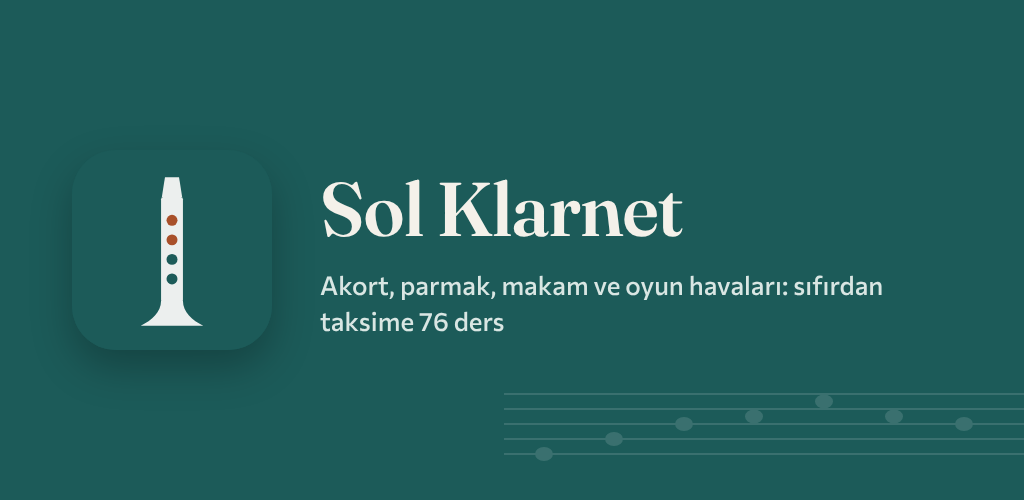
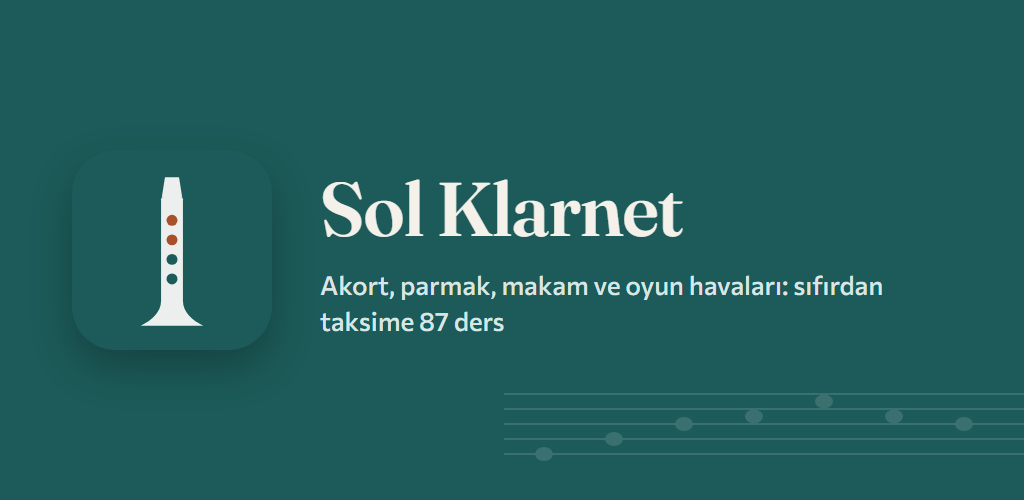
Mağaza: ekran görüntüleri ve metin bugünkü uygulamaya göre yenilendi
Sekiz ekran (hoca kartı, seviye sınaması, akort, parmak, çeşniler, nota arşivi, Çevir, eşlik), Play 1080×2160 ve iPhone 6,9" 1320×2868; arşivde kamu malı eser. Mağaza metnine Çevir ve Teori eklendi.

diff --git a/scripts/store-shots.js b/scripts/store-shots.js
@@ -1,7 +1,9 @@
-// Mağaza malzemeleri: telefon ekran görüntüleri (store/screens/, 1080×2160 civarı, Play'in 2:1 sınırında) ve
-// 1024×500 tanıtım görseli (store/feature-graphic.png). Uygulama yerel bir sunucudan açılır, gösterim için örnek
-// ilerleme yüklenir; Akort ve Kayıt ekranları sahte mikrofona verilen sentetik klarnet sesiyle çekilir.
-// Çalıştırma: npm run store-shots  (Playwright ve Chromium gerekir: npm i -D playwright && npx playwright install chromium)
+// Mağaza malzemeleri: telefon ekran görüntüleri (Play için store/screens/ 1080×2160, App Store için store/screens/ios/
+// 1320×2868) ve 1024×500 tanıtım görseli (store/feature-graphic.png). Uygulama yerel bir sunucudan açılır, gösterim için
+// örnek ilerleme yüklenir; Akort ve Seviye sınaması sahte mikrofona verilen sentetik klarnet sesiyle çekilir.
+// Çalıştırma: npm run store-shots  (Playwright ve Chromium gerekir: npm i -D playwright && npx playwright install chromium;
+// genel kuruluysa NODE_PATH="$(npm root -g)"). ONLY=play ya da ONLY=ios yalnız o takımı çeker. SHOT_SRC=klasör uygulamayı o
+// kopyadan sunar (git archive HEAD ile çıkarılmış temiz kopya: başka oturumların yarım değişiklikleri görüntüye girmesin).
 const fs = require("fs");
 const path = require("path");
 const http = require("http");
@@ -12,6 +14,8 @@ try{ ({ chromium } = require("playwright")); }
 catch(e){ console.error("Playwright bulunamadı: npm i -D playwright && npx playwright install chromium"); process.exit(1); }
 
 const ROOT = path.join(__dirname, "..");
+const SRC = path.resolve(process.env.SHOT_SRC || ROOT);
+const { LESSONS } = require(path.join(SRC, "lessons.js"));
 const OUT = path.join(ROOT, "store", "screens");
 const TYPES = { ".html":"text/html", ".js":"text/javascript", ".css":"text/css", ".json":"application/json", ".svg":"image/svg+xml",
   ".png":"image/png", ".woff2":"font/woff2", ".webmanifest":"application/manifest+json" };
@@ -37,72 +41,123 @@ function toneWav(file, seq){
   fs.writeFileSync(file, b);
 }
 
-// Gösterim için örnek ilerleme: ilk 30 ders bitmiş, 12 günlük seri, birkaç rekor
+// Gösterim için örnek ilerleme: üç ünite ve sınavları bitmiş, Teknik ve üslup yarıda, iki dersin tekrarı gelmiş, bugünkü
+// çalışma daha yapılmamış (hoca kartı Bugünün çalışması'nı söyler). Kademe raporu görülmüş sayılır
 function seedScript(){
   return `(() => {
     const day = d => { const x = new Date(); x.setDate(x.getDate() - d); return x.getFullYear() + "-" + String(x.getMonth()+1).padStart(2,"0") + "-" + String(x.getDate()).padStart(2,"0"); };
-    const prog = {};
-    LESSONS.slice(0, 30).forEach((l, i) => { prog[l.id] = { s:{}, d: day(40 - i) }; l.steps.forEach((s, k) => prog[l.id].s[k] = { v:1, ok:true }); });
-    for(const u of ["baslangic", "temel", "klarino"]){ const ex = examFor(u); prog[ex.id] = { s:{}, d: day(20) }; ex.steps.forEach((s, k) => prog[ex.id].s[k] = { v:1, ok:true }); }
-    const days = {}; for(let i=0;i<40;i++) if(i < 12 || i % 3) days[day(i)] = 900 + (i*137 % 900);
+    const units = ["baslangic", "temel", "klarino"], prog = {};
+    const finish = (l, d) => { prog[l.id] = { s:{}, d: day(d) }; l.steps.forEach((s, k) => prog[l.id].s[k] = { v:1, ok:true }); };
+    LESSONS.filter(l => units.includes(l.unit) || ["uzun-ton", "glissando", "vibrato", "register-gecisi", "artikulasyon"].includes(l.id)).forEach((l, i) => finish(l, 34 - i));
+    units.forEach((u, i) => finish(examFor(u), 22 - i*5));
+    const days = {}; for(let i=1;i<40;i++) if(i < 12 || i % 3) days[day(i)] = 900 + (i*137 % 900);
     const set = (k, v) => localStorage.setItem("sk." + k, JSON.stringify(v));
-    set("lesson.prog", prog); set("days", days); set("onboard.done", true); set("goal.min", 15);
-    set("lesson.dailyDone", Array.from({ length:18 }, (_, i) => day(i)));
+    set("lesson.prog", prog); set("days", days); set("onboard.done", true); set("onboard.level", "makam"); set("goal.min", 15);
+    set("lesson.dailyDone", Array.from({ length:11 }, (_, i) => day(i + 1)));
     set("long.best", { 67:{ score:72 }, 69:{ score:68 }, 74:{ score:64 } }); set("rhythm.best", 78); set("ear.best", { pitch:1.5, makam:4 });
-    set("lesson.cur", "daily"); set("band.usul", "roman"); set("band.mk", "hicaz");
+    set("rm.reported", ["baslangic"]); set("band.usul", "roman"); set("band.mk", "hicaz"); set("lesson.cur", "dinamik"); set("arch.zoom", 0.8);
+    window.SK_RESETTING = true;      // sayfa kapanırken bellekteki boş sayaçlar örnek günlerin üstüne yazılmasın
   })()`;
 }
 
+// Seviye sınamasının nota turundaki sıra (onboard.js CHECK); sahte mikrofon notaları bu sırayla döngüde çalar
+const CHECK_SEQ = [67, 62, 60, 55, 52, 69, 70, 71, 72, 74, 79, 84].map(w => [w, 1.8]);
+// Arşiv ve Çevir ekranlarındaki eser: Kantemiroğlu (ö. 1723), Uşşak saz semâîsi; besteci kamu malı, sözsüz, docs/lisans-disla.csv
+// ve docs/lisans-belirsiz.csv listelerinde yok. Eser değişirse bu listelerden yeniden bakılmalı
+const PIECE = "ussak--sazsemaisi--aksaksemai----kantemiroglu";
+// Akort ekranındaki ses: Uşşak'ta icra Segâh'ı (AEU'dan 1,5 koma pes), hedefin hemen altında. Yazılı nota kesirli olabilir
+const SEGAH_ICRA = 67 + (17 - 1.5 - 0.2)*12/53 - 0.04;
+
+// Her ekran bir kez Play için, bir kez App Store için çekilir (boyutlar tam bu olmalı)
+const TARGETS = [
+  { id:"play", dir: OUT, label: "store/screens/", viewport:{ width:432, height:864 }, dpr:2.5 },                     // 1080×2160, Play'in 2:1 sınırı
+  { id:"ios", dir: path.join(OUT, "ios"), label: "store/screens/ios/", viewport:{ width:440, height:956 }, dpr:3 }   // 1320×2868, iPhone 6,9"
+];
+
+async function shootAll(t, base, wavs){
+  fs.mkdirSync(t.dir, { recursive: true });
+  const open = async wav => {
+    const browser = await chromium.launch({ args:["--use-fake-ui-for-media-stream", "--use-fake-device-for-media-stream",
+      "--use-file-for-fake-audio-capture=" + wav, "--autoplay-policy=no-user-gesture-required"] });
+    const ctx = await browser.newContext({ viewport:t.viewport, deviceScaleFactor:t.dpr, isMobile:true, hasTouch:true,
+      permissions:["microphone"], colorScheme:"light", locale:"tr-TR" });
+    // Üst çubuk yarı saydam: kaydırılmış sayfada alttaki yazı içinden hayalet gibi görünmesin
+    await ctx.addInitScript(() => addEventListener("DOMContentLoaded", () => { const st = document.createElement("style"); st.textContent = ".appbar{background:var(--paper)!important;backdrop-filter:none!important;-webkit-backdrop-filter:none!important}"; document.head.append(st); }));
+    const page = await ctx.newPage();
+    page.on("pageerror", e => console.error("sayfa hatası:", e.message));
+    await page.goto(base + "index.html");
+    await page.evaluate(seedScript());
+    return { browser, page };
+  };
+  const save = async (page, name) => { await page.screenshot({ path: path.join(t.dir, name + ".png") }); console.log(t.label + name + ".png"); };
+  // Üst çubuk yapışkan: öğe çubuğun altında kalmasın (gap: çubuktan uzaklık)
+  const toTop = (page, sel, gap = 84) => page.evaluate(([s, g]) => window.scrollTo(0, window.scrollY + document.querySelector(s).getBoundingClientRect().top - g), [sel, gap]);
+
+  // Seviye sınaması: nota okuma soruları geçilir, gerçek ses izleme altıncı notaya kadar sürer
+  const lv = await open(wavs.check);
+  { const page = lv.page;
+    await page.goto(base + "index.html?tab=lessons"); await page.waitForTimeout(1200);
+    await page.click("#lslevel"); await page.waitForTimeout(400);
+    await page.click('[data-ob="chkstart"]'); await page.waitForTimeout(400);
+    for(const a of ["Mi", "La", "Do", "Fa"]){ await page.click(`[data-read="${a}"]`); await page.waitForTimeout(500); }
+    await page.waitForFunction(() => /6\/12/.test(document.querySelector("#onboard .eyebrow")?.textContent || "") && parseFloat(document.getElementById("obhold")?.style.width) > 35, null, { timeout:90000 });
+    await save(page, "2-seviye-sinamasi");
+  }
+  await lv.browser.close();
+
+  const { browser, page } = await open(wavs.play);
+  const shot = async (name, url, prep) => {
+    await page.goto(base + url); await page.waitForTimeout(1300);
+    if(prep) await prep();
+    await page.waitForTimeout(300);
+    await save(page, name);
+  };
+  await shot("1-hoca-karti", "index.html?tab=lessons");
+  await shot("3-akort", "index.html?view=tune", async () => {
+    await page.selectOption("#tmakam", "ussak"); await page.click('[data-tune="icra"]');
+    await page.click("#btn"); await page.waitForTimeout(1800);
+  });
+  await shot("4-parmak", "index.html?view=finger", async () => {
+    await page.click('#rail [aria-label*="yazılı Re4 "]'); await page.waitForTimeout(500);
+    await page.evaluate(() => { SK.stopAll(); window.scrollTo(0, 225); });
+  });
+  await shot("5-cesniler", "index.html?tab=teori", async () => {
+    await page.click('[data-t="cesni"]'); await page.waitForTimeout(700);
+    await toTop(page, '[data-ce="0"]', 68);
+  });
+  await shot("6-nota-arsivi", "index.html?eser=" + PIECE, async () => { await page.click("#arfull"); await page.waitForTimeout(800); });
+  // Çevir: arşivdeki aynı eserin notası resim olarak verilir, gerçek okuyucu okur
+  const clip = await page.evaluate(() => { const r = [...document.querySelectorAll("#pp-archive svg.score")].slice(0, 4).map(e => e.getBoundingClientRect()); return { x:r[0].x + scrollX, y:r[0].y + scrollY, width:r[0].width, height:r[3].bottom - r[0].top }; });
+  const pic = await page.screenshot({ clip, fullPage:true });
+  await page.evaluate(() => document.body.classList.remove("arfullbody"));
+  await shot("7-cevir", "index.html?tab=convert", async () => {
+    await page.setInputFiles("#cvpic", { name:"ussak-saz-semaisi.png", mimeType:"image/png", buffer:pic });
+    await page.waitForSelector("#cvchips button", { timeout:30000 }); await page.waitForTimeout(800);
+    await toTop(page, "#cvkind", 66);
+  });
+  await shot("8-eslik", "index.html?tab=band", async () => {
+    await page.click("#bdgo"); await page.waitForTimeout(7000); await page.click("#bdgo"); await page.waitForTimeout(800);
+  });
+  await browser.close();
+}
+
 async function main(){
-  fs.mkdirSync(OUT, { recursive: true });
   const srv = http.createServer((req, res) => {
-    const u = decodeURIComponent(req.url.split("?")[0]), f = path.join(ROOT, u === "/" ? "index.html" : u);
-    if(!f.startsWith(ROOT) || !fs.existsSync(f) || fs.statSync(f).isDirectory()){ res.writeHead(404); return res.end(); }
+    const u = decodeURIComponent(req.url.split("?")[0]), f = path.join(SRC, u === "/" ? "index.html" : u);
+    if(!f.startsWith(SRC) || !fs.existsSync(f) || fs.statSync(f).isDirectory()){ res.writeHead(404); return res.end(); }
     res.writeHead(200, { "Content-Type": TYPES[path.extname(f)] || "application/octet-stream" }); fs.createReadStream(f).pipe(res);
   }).listen(0);
   const base = "http://localhost:" + srv.address().port + "/";
-  const wav = path.join(os.tmpdir(), "sol-klarnet-shots.wav");
-  toneWav(wav, [[74, 2.5], [null, 0.3], [72, 0.6], [74, 0.6], [76, 0.6], [77, 0.6], [79, 1.2], [null, 0.3], [77, 0.6], [76, 0.6], [74, 1.5], [null, 0.4]]);
-  const browser = await chromium.launch({ args:["--use-fake-ui-for-media-stream", "--use-fake-device-for-media-stream",
-    "--use-file-for-fake-audio-capture=" + wav, "--autoplay-policy=no-user-gesture-required"] });
-  const ctx = await browser.newContext({ viewport:{ width:411, height:822 }, deviceScaleFactor:2.625, isMobile:true, hasTouch:true,
-    permissions:["microphone"], colorScheme:"light", locale:"tr-TR" });
-  const page = await ctx.newPage();
-  page.on("pageerror", e => console.error("sayfa hatası:", e.message));
-  await page.goto(base + "index.html");
-  await page.evaluate(seedScript());
-  const shot = async (name, url, prep) => {
-    await page.goto(base + url); await page.waitForTimeout(1200);
-    if(prep) await prep();
-    await page.screenshot({ path: path.join(OUT, name + ".png") });
-    console.log("store/screens/" + name + ".png");
-  };
-  await shot("1-akort", "index.html?view=tune", async () => {
-    await page.click("#btn");
-    await page.waitForTimeout(1800);
-  });
-  await shot("2-dersler", "index.html?view=practice&tab=lessons", async () => { await page.evaluate(() => { const b = document.getElementById("lsbody"); if(b) b.scrollIntoView(); }); });
-  await shot("3-yol-haritasi", "index.html?view=practice&tab=roadmap", async () => { await page.evaluate(() => document.querySelector(".rmbadges").scrollIntoView({ block:"start" })); });
-  await shot("4-nota-arsivi", "index.html?view=practice&tab=archive", async () => {
-    const r = await page.$("#pp-archive [data-id]"); if(r){ await r.click(); await page.waitForTimeout(1200); }
-  });
-  await shot("5-eslik", "index.html?view=practice&tab=band", async () => {
-    await page.click("#bdgo"); await page.waitForTimeout(2500);
-    await page.evaluate(() => document.getElementById("bdslots").scrollIntoView({ block:"center" }));
-  });
-  await shot("6-kayit", "index.html?view=practice&tab=rec", async () => {
-    for(let k=0;k<2;k++){ await page.click("#rcbtn"); await page.waitForTimeout(5000); await page.click("#rcbtn"); await page.waitForTimeout(2000); }
-    await page.evaluate(async () => { const all = (await RECDB.list()).sort((a, b) => a.ts - b.ts); all[0].ts -= 31*864e5; all[0].sum = { ...all[0].sum, pct: Math.max(0, (all[0].sum.pct || 60) - 25), dev: (all[0].sum.dev || 0.6) + 0.9 }; await RECDB.put(all[0], null); });
-    await page.goto(base + "index.html?view=practice&tab=rec"); await page.waitForTimeout(1200);
-    await page.click("#rchist .primary"); await page.waitForTimeout(800);
-    await page.evaluate(() => document.getElementById("rccmp").scrollIntoView({ block:"start" }));
-  });
-  await page.evaluate(async () => { for(const m of await RECDB.list()) await RECDB.del(m.id); });
+  const wavs = { play: path.join(os.tmpdir(), "sol-klarnet-shots.wav"), check: path.join(os.tmpdir(), "sol-klarnet-check.wav") };
+  toneWav(wavs.play, [[SEGAH_ICRA, 8], [null, 0.3]]);
+  toneWav(wavs.check, CHECK_SEQ);
+  for(const t of TARGETS) if(!process.env.ONLY || t.id === process.env.ONLY) await shootAll(t, base, wavs);
 
   // Tanıtım görseli: 1024×500
+  const browser = await chromium.launch();
   const fg = await browser.newPage({ viewport:{ width:1024, height:500 }, deviceScaleFactor:1 });
   await fg.goto(base + "index.html");
-  const icon = fs.readFileSync(path.join(ROOT, "icon.svg"), "utf8");
+  const icon = fs.readFileSync(path.join(SRC, "icon.svg"), "utf8");
   await fg.setContent(`<!doctype html><html><head><link rel="stylesheet" href="${base}fonts/fonts.css"><style>
     body{margin:0;width:1024px;height:500px;background:#1C5B59;color:#F4F1EA;font-family:Fraunces,serif;display:flex;align-items:center;gap:48px;padding:0 72px;box-sizing:border-box;overflow:hidden;position:relative}
     .ic{width:200px;height:200px;flex:0 0 auto;border-radius:44px;overflow:hidden;box-shadow:0 18px 40px rgba(0,0,0,.25)}
@@ -111,7 +166,7 @@ async function main(){
     p{font:500 26px/1.35 Commissioner,sans-serif;margin:0;color:#D9E6E3;max-width:600px}
     .st{position:absolute;right:-40px;bottom:36px;width:560px;opacity:.13}
   </style></head><body><div class="ic">${icon}</div><div><h1>Sol Klarnet</h1>
-    <p>Akort, parmak, makam ve oyun havaları: sıfırdan taksime 77 ders</p></div>
+    <p>Akort, parmak, makam ve oyun havaları: sıfırdan taksime ${LESSONS.length} ders</p></div>
     <svg class="st" viewBox="0 0 560 80"><g stroke="#fff" stroke-width="2">${[0,1,2,3,4].map(i => `<line x1="0" x2="560" y1="${10+i*15}" y2="${10+i*15}"/>`).join("")}</g>
     <g fill="#fff">${[40,110,180,250,320,390,460,530].map((x, i) => `<ellipse cx="${x}" cy="${70 - [0,2,4,5,7,5,4,2][i]*7.5}" rx="9" ry="7"/>`).join("")}</g></svg></body></html>`);
   await fg.waitForTimeout(600);

diff --git a/store/listing.md b/store/listing.md
@@ -2,7 +2,8 @@
 
 Play Console → Ana mağaza girişi. Kısa açıklama en çok 80, uzun açıklama en çok 4000 karakter.
 Görseller: `store/play-icon-512.png` (simge), `store/feature-graphic.png` (1024×500 tanıtım görseli),
-`store/screens/*.png` (telefon ekran görüntüleri; yeniden üretmek için `npm run store-shots`).
+`store/screens/*.png` (Play telefon görüntüleri, 1080×2160), `store/screens/ios/*.png` (App Store iPhone 6,9", 1320×2868);
+yeniden üretmek için `npm run store-shots`.
 
 ## Türkçe
 
@@ -32,6 +33,7 @@ DERSLER VE YOL HARİTASI
 MAKAM VE KULAK
 • 20 makamın dizisi, seyri, durak ve güçlüsü; taklit, seyir (taksim) değerlendirmesi
 • Koma eşiği, perde ayırt, makam ve aralık tanıma; ritim ve ezgi diktesi, deşifre
+• Teori: dizekten perdelere, çeşniler (dörtlü ve beşliler), makam yapısı, usul
 
 OYUN HAVALARI VE EŞLİK
 • Kasap, karşılama, Roman havası, çiftetelli, Rumeli, sirto, köçekçe, zeybek ve Ağır Roman etütleri
@@ -46,6 +48,7 @@ TEKNİK VE SÜSLEME
 
 NOTA ARŞİVİ VE KAYIT
 • SymbTr'den 2200 eser: koma işaretli nota, eşlik, tempo, A–B döngü, mikrofonla takip
+• Çevir: PDF, resim ya da sesten notayı oku; okunanı denetle, düzelt, kendi eserlerine ekle
 • Kayıtlarını tarihle sakla, bir ay önceki kaydınla karşılaştır: perde eğrileri üst üste, farklar sayıyla
 
 Bilmen gerekenler: örnek klarnet sesleri Si♭ klarnet kaydıdır, perdesi Sol klarnete ayarlanır; Sol klarnet tınısı değildir. Perde bulucu Si♭ klarnet kayıtlarıyla ve benzetilmiş telefon ve oda koşullarıyla sınandı; Türk Sol klarnetiyle sınama sürüyor. Çeyrek ses parmakları kaynaktan alındı, Sol klarnette doğrulanmadı ve uygulamada öyle işaretli.
@@ -80,6 +83,7 @@ LESSONS AND ROADMAP
 MAKAM AND EAR
 • Scale, seyir, final and dominant of 20 makams; imitation and seyir (taksim) assessment
 • Comma threshold, pitch discrimination, makam and interval recognition; rhythm and melodic dictation, sight-reading
+• Theory: from the staff to perdes, çeşnis (tetrachords and pentachords), makam structure, usul
 
 DANCE TUNES AND PLAY-ALONG
 • Études for kasap, karşılama, Roman havası, çiftetelli, Rumeli, sirto, köçekçe, zeybek and ağır Roman
@@ -94,6 +98,7 @@ TECHNIQUE AND ORNAMENTS
 
 SCORE LIBRARY AND RECORDINGS
 • 2200 pieces from SymbTr: comma-accurate notation, band accompaniment, tempo, A–B loop, mic follow
+• Convert: read notes from a PDF, picture or recording; check, correct and save them to your own pieces
 • Keep your recordings by date and compare with one from a month ago: pitch curves overlaid, differences in numbers
 
 Good to know: the sample clarinet sounds are B♭ clarinet recordings pitched to the G clarinet, not the G clarinet's own timbre. The pitch detector was tested on B♭ clarinet recordings and on simulated phone and room conditions; testing with Turkish G clarinets is ongoing. Quarter-tone fingerings come from a published chart, are not yet verified on the G clarinet and are marked as such in the app.

diff --git a/docs/BACKLOG.md b/docs/BACKLOG.md
@@ -662,7 +662,7 @@ Güncel sayılar ve sıralı liste [DENEME-LISTESI.md](DENEME-LISTESI.md) içind
    `bandFreqs`), usule oturma yüzdesi gerçekçi mi (±60 ms), taksimde süsleme sayısı kulağa uyuyor mu, 2 dakikalık taksimin
    çözümü telefonda ne kadar sürüyor, IndexedDB'de 50 kayıt ne kadar yer tutuyor. Bulgulara göre düzeltilir.
 2. **Mağazaya çıkış (proje sahibi):** Play Console hesabı, yükleme anahtarı, kapalı test, veri güvenliği formu. Görseller ve
-   metinler `store/` klasöründe hazır. Ayrıntı: [TODO.md](TODO.md).
+   metinler `store/` klasöründe hazır (5 Kasım 2026'da yenilendi: 8 ekran, Play 1080×2160 ve iPhone 6,9" 1320×2868; iPad takımı yok, Xcode hedefi iPad'i de kapsıyor). Ayrıntı: [TODO.md](TODO.md).
 3. **Daha sonra:** Kamerayla duruş ve ağız kontrolü; hoca–öğrenci modu (ödev, kayda yorum); cihazlar arası eşitleme.
    İnternet kullanmak serbest (28 Ekim 2026, proje sahibi): internetsiz çalışma şartı yok.
 
